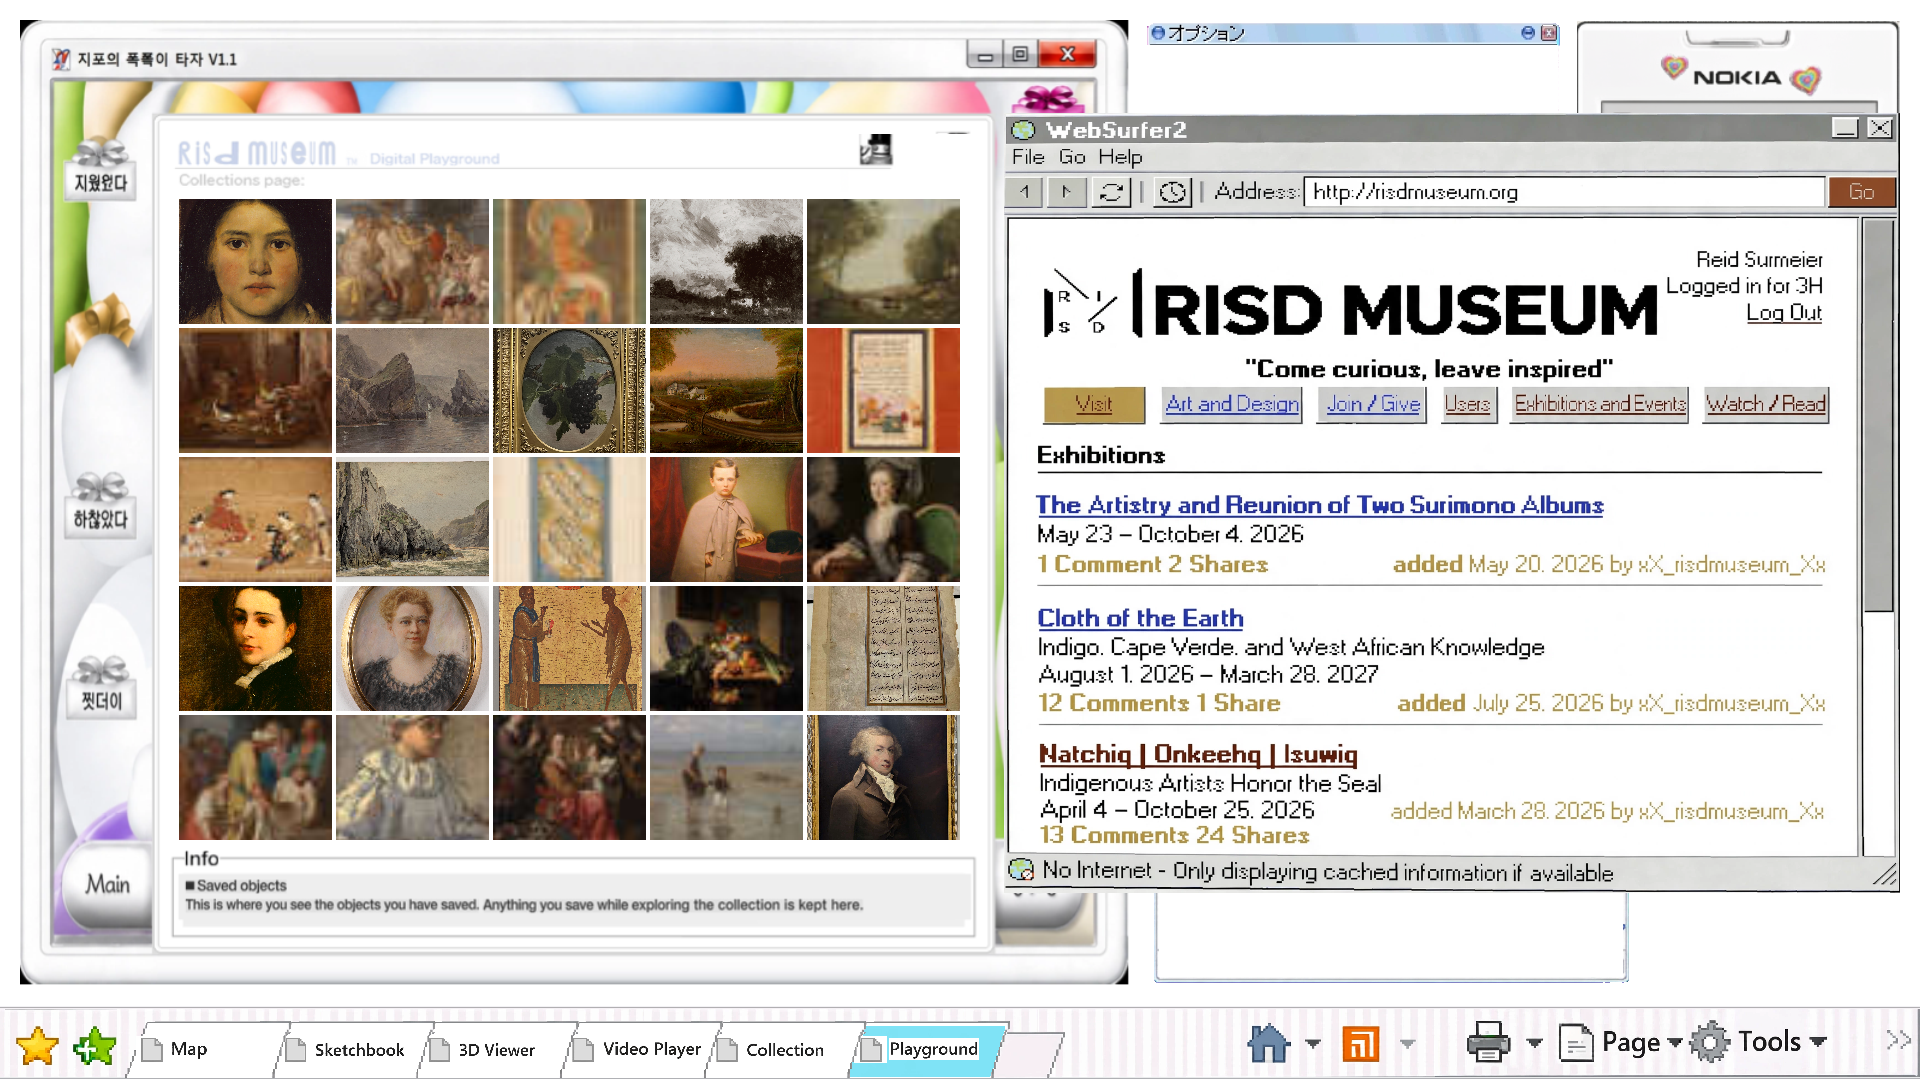
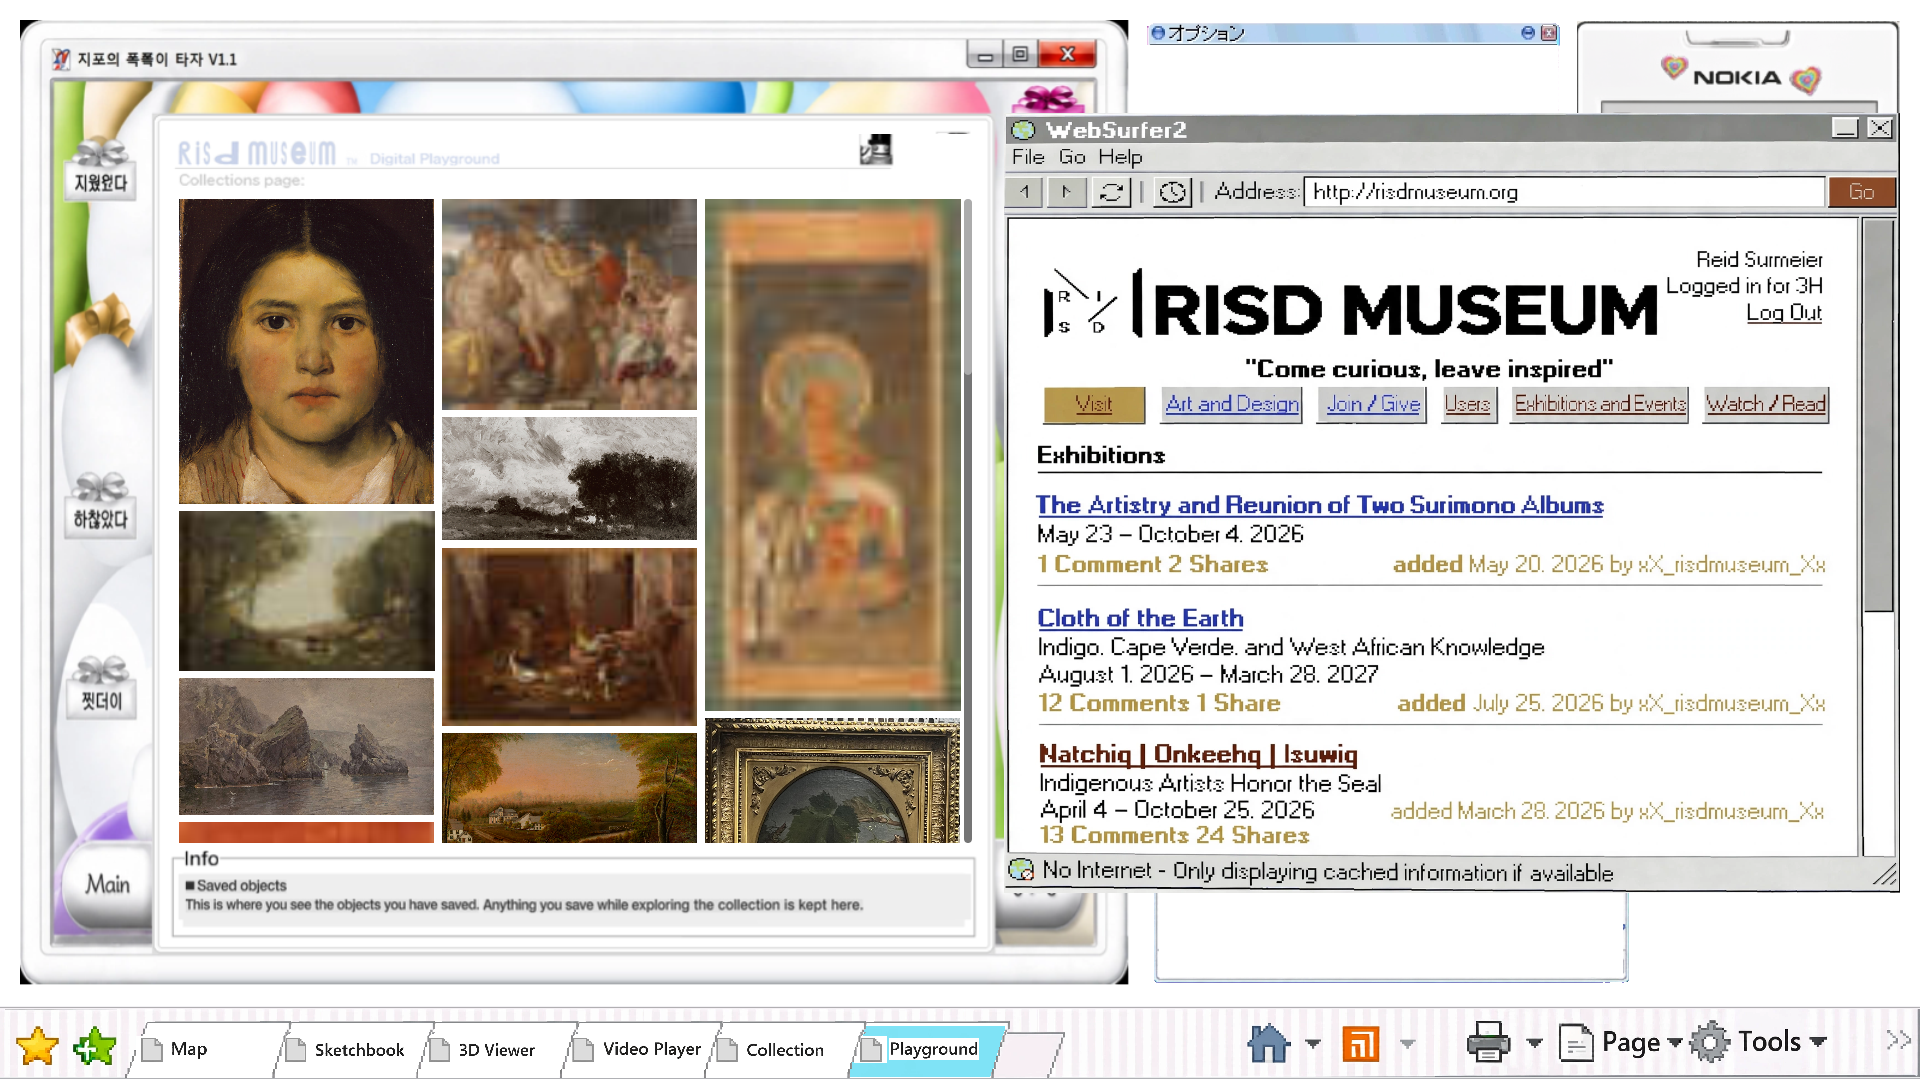
feat(gallery): add Are.na-style artwork channels

Changed region(s): [[0.0938, 0.1833, 0.5312, 0.7944]]

diff --git a/modules/collection_page/MODULE.md b/modules/collection_page/MODULE.md
@@ -15,7 +15,7 @@ depends-on: [shell, collection_data]
 
 `global_chatroom()` retains the existing chat chrome and supplies the Sketchbook desktop with a session-local composer. Enter or the original bottom-right icon posts text; the original title-bar smiley accepts PNG, JPEG and WebP images up to 8 MiB and appends a thumbnail. Posts remain with the live Tenant across Tab switches; there is no chat backend or cross-device persistence.
 
-The original Image Viewer desktop and draggable source windows remain. The Search filters body now contains native text, four-order/category dropdowns, Has Image, OK and Cancel controls. The Image Viewer renders validated RISD results, verified images, attribution, totals, coverage, freshness, missing-image state and selection details. A selected work can be saved to the shared browser-local collection; the button reports success only after IndexedDB commits and disables for an existing save. Draft changes wait for OK/Enter; Cancel/Escape restores the last successful query. Loading retains prior results, failures stay distinct, and old completions are ignored.
+The original Image Viewer desktop and draggable source windows remain. The Search filters body now contains native text, four-order/category dropdowns, Has Image, OK and Cancel controls. The Image Viewer renders validated RISD results as an Are.na-style masonry channel: each image keeps its full aspect ratio, metadata appears on hover, and click/Enter expands the verified image with its identity and Save action. A selected work can be saved to the shared browser-local collection; the button reports success only after IndexedDB commits and disables for an existing save. Draft changes wait for OK/Enter; Cancel/Escape restores the last successful query. Loading retains prior results, failures stay distinct, and old completions are ignored.
 
 The desktop keeps prototype-81's draggable source windows and fill rule. The live controls cover the old Search-filter decoration and verified cards cover the old fixed artwork cuts and fake count. A press raises the topmost window under the pointer; title bars drag within the Page; the viewer resizes from its lower-right corner with a 531x250 minimum. Native text and controls use `PixelMplus12-Regular.ttf` and fit inside the filter frame down to the accepted 720x486 browser size.
 

diff --git a/modules/playground_page/MODULE.md b/modules/playground_page/MODULE.md
@@ -23,7 +23,7 @@ Layout (ticket #63). The native desktop is 2171x1185 px (the windows' rects in t
 
 ## Inside
 
-`playground_page.gd` owns the retained raster frames, clearing overlays, save cards, verified image loading, and the existing drag, raise and clamp behavior. In the main demo, the PostPet window uses the same collection-data seam and verified hash route to fill its existing white body with a 5-by-5 grid of 25 public-domain RISD paintings; the frozen fixture leaves that optional gallery off. `PROVENANCE.md` has every raster frame's origin and hash, while `docs/evidence/playground-gallery/` records the gallery metadata, rights evidence and image hashes.
+`playground_page.gd` owns the retained raster frames, clearing overlays, save cards, verified image loading, and the existing drag, raise and clamp behavior. In the main demo, the PostPet window uses the same collection-data seam and verified hash route for an Are.na-style masonry channel of 25 public-domain RISD paintings: full image ratios, hover identity, vertical scrolling and click-to-expand. The frozen fixture leaves that optional gallery off. `PROVENANCE.md` has every raster frame's origin and hash, while `docs/evidence/playground-gallery/` records the gallery metadata, rights evidence and image hashes.
 
 The main demo also enables the approved WebSurfer raster as a seventh draggable Playground window. The unused gray source bands are cropped, and its baked bottom-right grip resizes the whole raster proportionally so its lettering and controls stay intact. All controls are invisible hit regions; button and scrollbar motion sample the source pixels without drawing replacement text. The frozen six-window acceptance fixture leaves this optional comparison window disabled.
 

diff --git a/docs/evidence/playground-gallery/README.md b/docs/evidence/playground-gallery/README.md
@@ -1,13 +1,17 @@
 # Verified RISD painting route
 
-The Playground's colorful PostPet window now fills its existing white body with a
-5-by-5 gallery. The 25 works came from the RISD collection search for Paintings;
+The Playground's colorful PostPet window now fills its existing white body with an
+Are.na-style masonry channel. The 25 works came from the RISD collection search for Paintings;
 each was confirmed as type Paintings and Public Domain on its official object
 page. `official-paintings-2026-09-21.json` preserves the official API metadata,
 `painting-images.json` records the corresponding Picturepark URL and byte hash,
 and `corpus.json` is the validated same-origin search corpus used by the game.
 
-![The 25-painting gallery inside the retained PostPet window](playground-gallery.png)
+![The 25-painting masonry channel inside the retained PostPet window](playground-gallery.png)
+![Artwork identity appears on hover](playground-hover.png)
+![Clicking opens the full verified image](playground-expanded.png)
+![The Collection channel uses the same hover pattern](collection-hover.png)
+![The Collection channel's expanded artwork view](collection-expanded.png)
 
 `painting-images.json` records each object page, carousel ID, Picturepark URL,
 downloaded hash, MIME and dimensions. Artwork rights remain unknown because the
